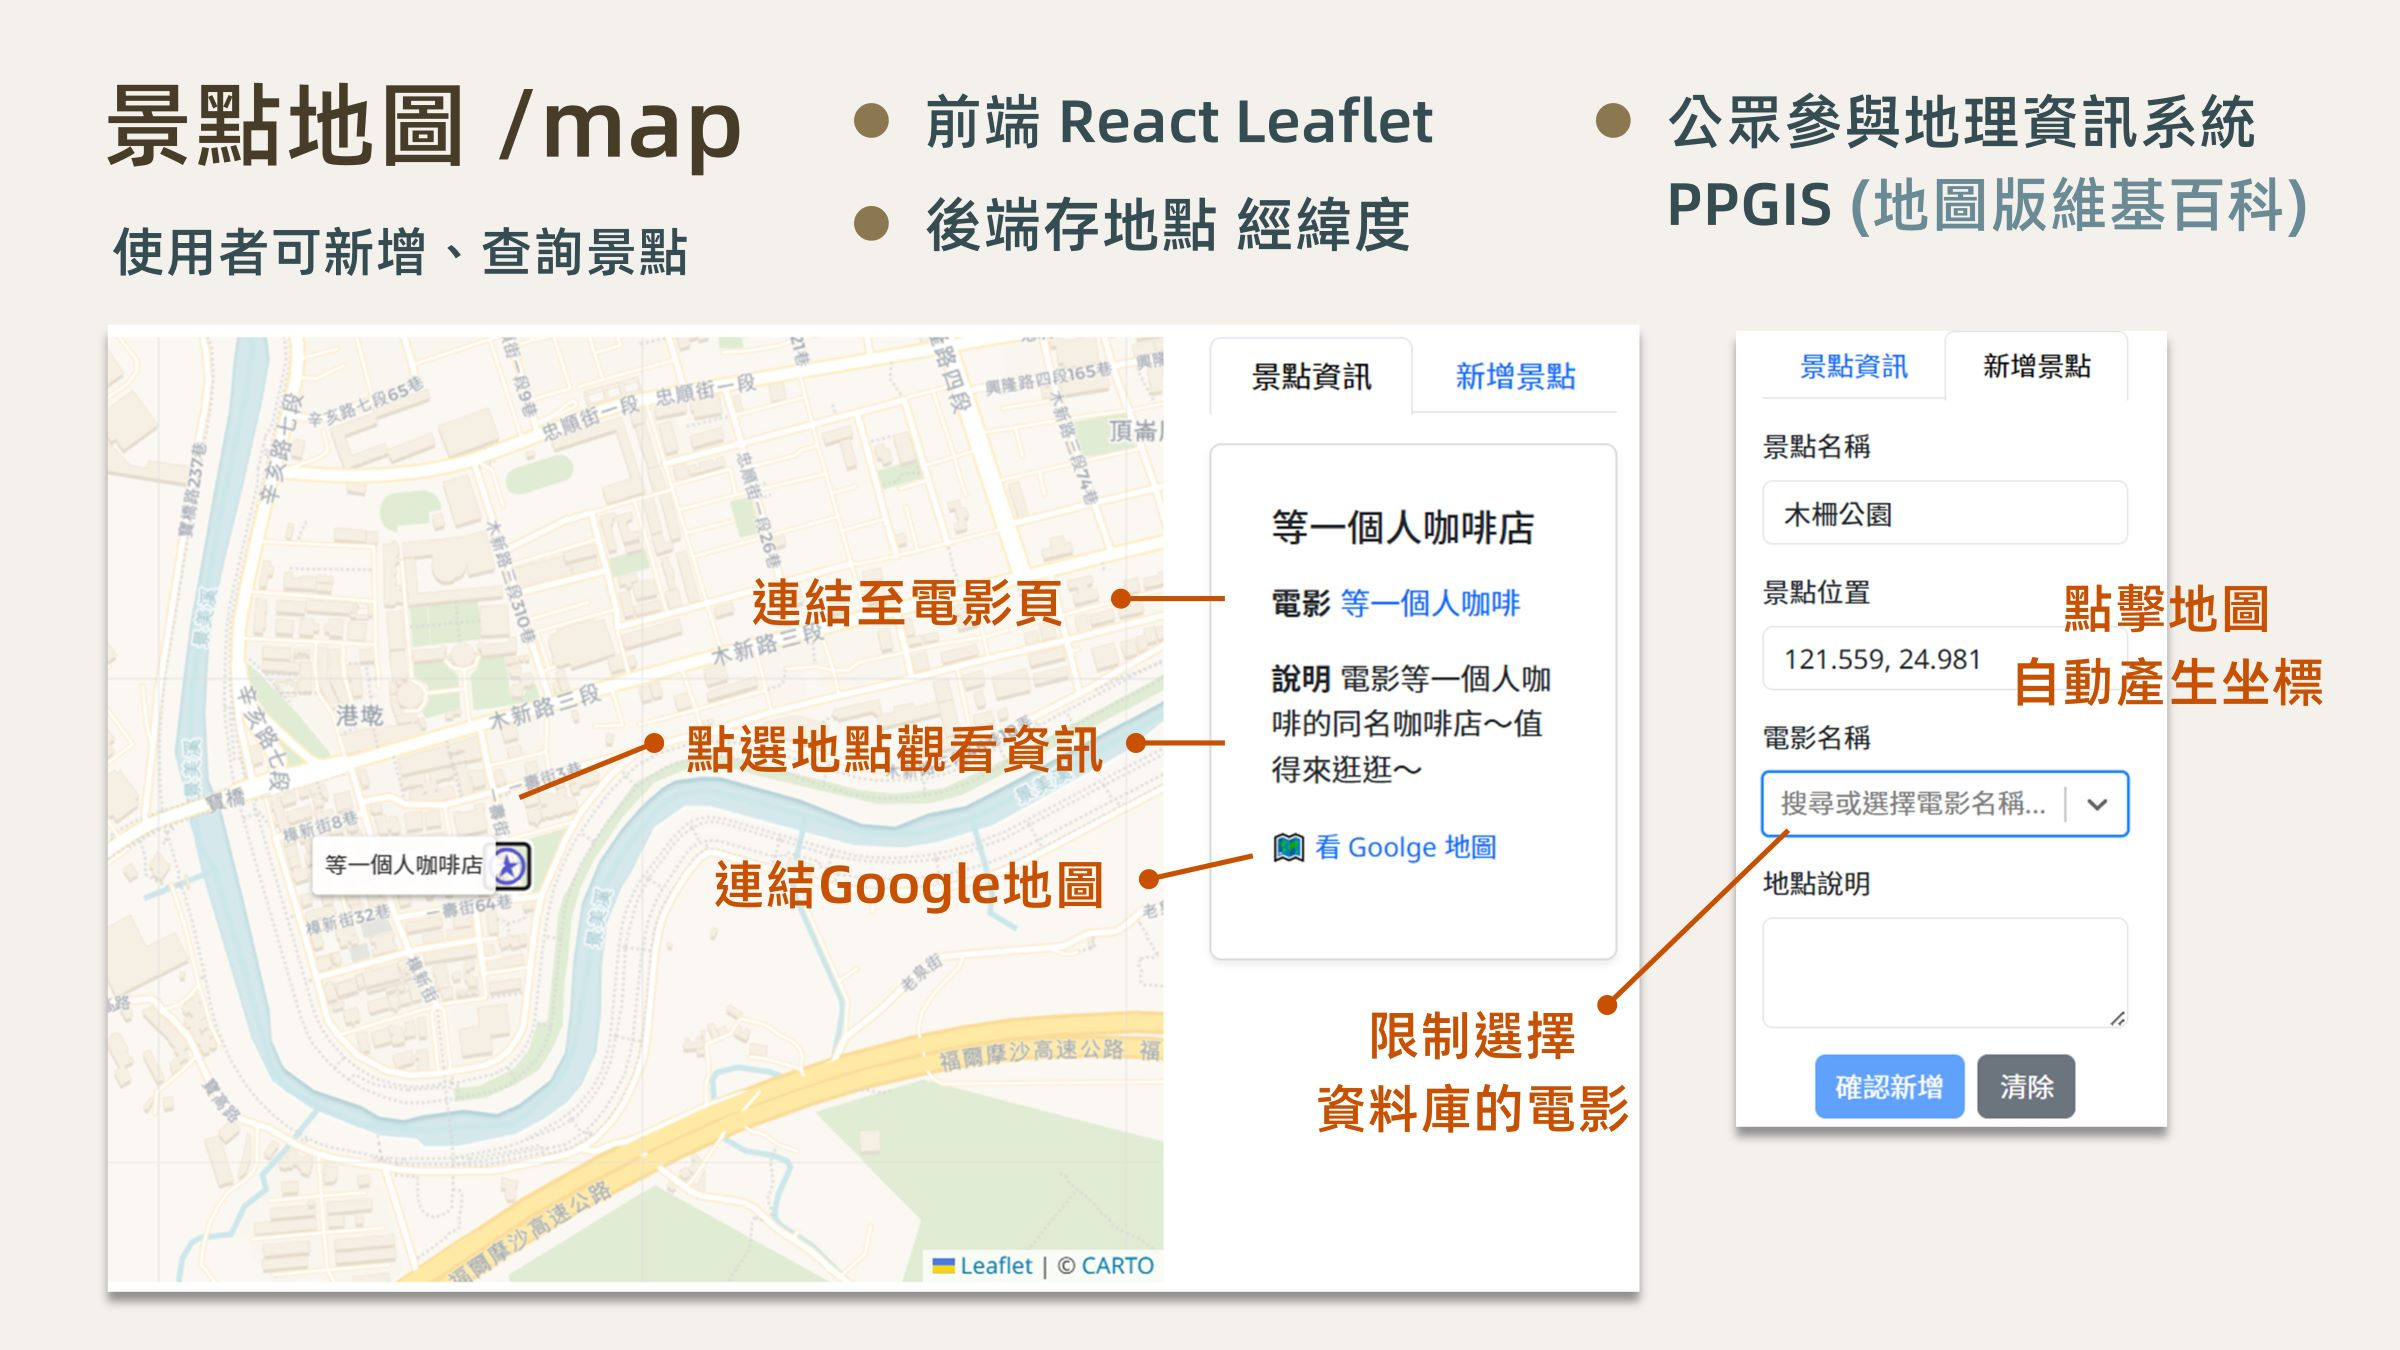
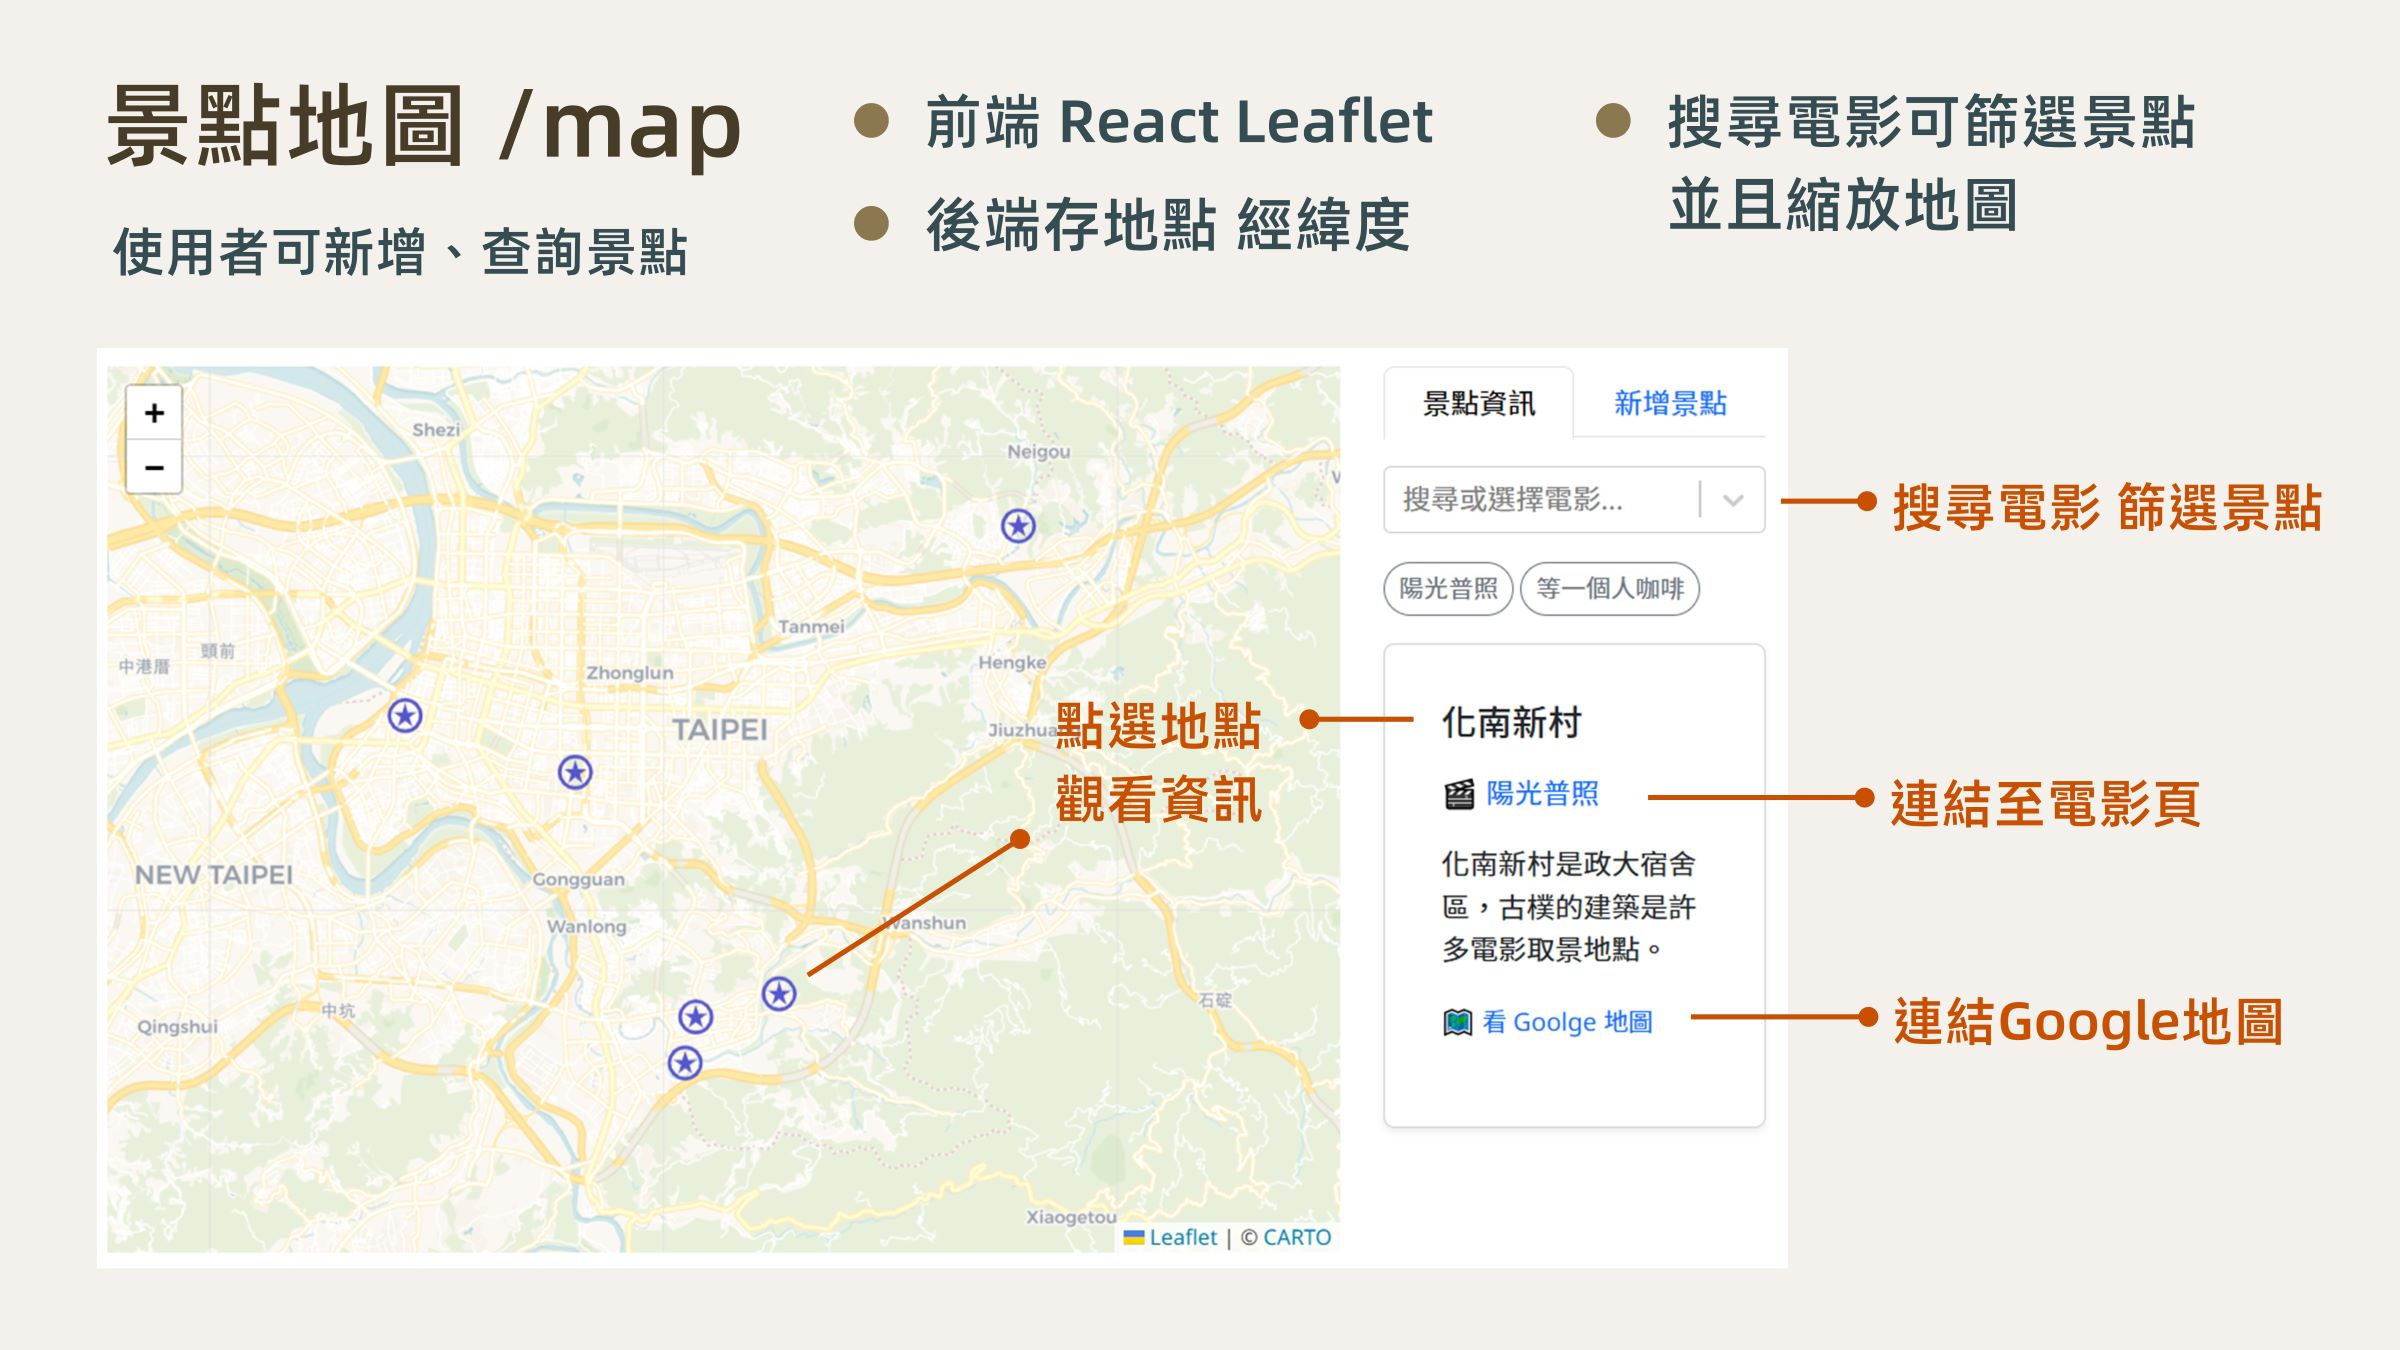
0617-2114

Changed region(s): [[0.0312, 0.2489, 0.9688, 0.9644], [0.6875, 0.0622, 0.9688, 0.1867], [0.75, 0.2489, 0.875, 0.28]]

diff --git a/README.md b/README.md
@@ -45,17 +45,22 @@
 ![image](https://github.com/wayou122/react-movie/blob/master/%E5%B0%88%E6%A1%88%E8%AA%AA%E6%98%8E%E5%9C%96/%E5%B0%88%E6%A1%88%E8%AA%AA%E6%98%8E(11).JPG)
 
 ### 景點地圖
-有許多電影拍攝場景會成為影迷朝聖的地點，這個頁面提供使用者自由共同編輯電影景點地圖，類似於開放街圖/地圖版維基百科，符合PPGIS公眾參與地理資訊系統的精神。此頁面使用React Leaflet套件架設，後端存取經緯度坐標呈現在地圖上。
+有許多電影拍攝場景會成為影迷朝聖的地點，此頁面提供使用者共同編輯電影景點地圖，類似於開放街圖/地圖版維基百科，符合PPGIS公眾參與地理資訊系統的精神。此頁面使用React Leaflet套件架設，後端存取經緯度坐標，前端存取坐標呈現在地圖上。
 
-使用者點選地圖會自動產出坐標，搜尋電影名稱點選出現此地點的電影（限定選擇資料庫內的電影，用於建立電影表外鍵）。新增完成後點選景點可以看到景點資訊，也可以連結至電影頁面。
+使用者搜尋電影，可以篩選出此電影的景點，地圖根據地點縮放。景點資訊卡可以連結至電影頁面，也可以連結搜尋Google地圖，方便使用者收藏和規畫路徑。相對地，電影頁面也可以連結至景點地圖，自動篩選符合景點。
 
 ![image](https://github.com/wayou122/react-movie/blob/master/%E5%B0%88%E6%A1%88%E8%AA%AA%E6%98%8E%E5%9C%96/%E5%B0%88%E6%A1%88%E8%AA%AA%E6%98%8E(12).JPG)
+
+使用者可以自由新增景點。點選地圖會自動產出坐標，並且選擇拍攝的電影（限定選擇資料庫內的電影，用於建立電影外鍵）。新增完成後點選景點可以看到景點資訊，也可以連結至電影頁面。
+
+![image](https://github.com/wayou122/react-movie/blob/master/%E5%B0%88%E6%A1%88%E8%AA%AA%E6%98%8E%E5%9C%96/%E5%B0%88%E6%A1%88%E8%AA%AA%E6%98%8E(13).JPG)
+
 
 ## 專案資訊
 本專案由王昱堯在2025年5-6月獨自完成。
 * 專案後端連結 https://github.com/wayou122/springboot-movie
 * 專案前端連結 https://github.com/wayou122/react-movie
 
-![image](https://github.com/wayou122/react-movie/blob/master/%E5%B0%88%E6%A1%88%E8%AA%AA%E6%98%8E%E5%9C%96/%E5%B0%88%E6%A1%88%E8%AA%AA%E6%98%8E(13).JPG)
+![image](https://github.com/wayou122/react-movie/blob/master/%E5%B0%88%E6%A1%88%E8%AA%AA%E6%98%8E%E5%9C%96/%E5%B0%88%E6%A1%88%E8%AA%AA%E6%98%8E(14).JPG)
 
 
